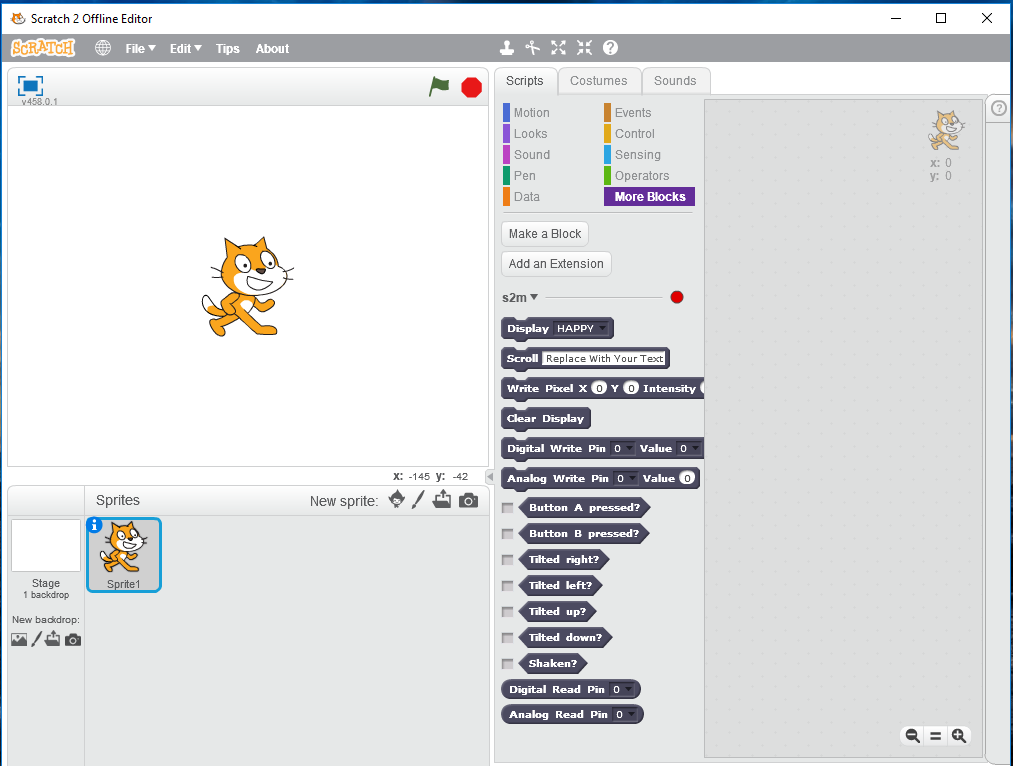
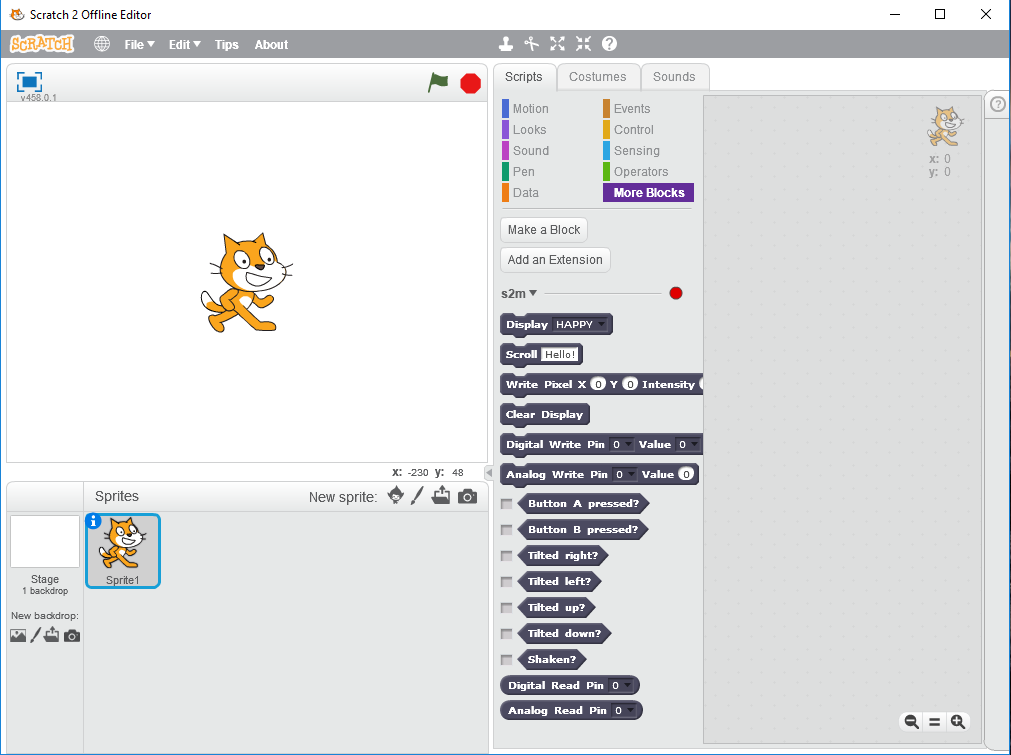
Deployed 98436e9 with MkDocs version: 0.17.1

diff --git a/blocks/index.html b/blocks/index.html
@@ -98,6 +98,30 @@
 
     <li class="toctree-l2"><a href="#the-japanese-blocks">The Japanese Blocks</a></li>
     
+        <ul>
+        
+            <li><a class="toctree-l3" href="#the-japanese-translation-was-provided-by-junya-ishihara">The Japanese translation was provided by Junya Ishihara.</a></li>
+        
+        </ul>
+    
+
+    <li class="toctree-l2"><a href="#the-korean-blocks">The Korean Blocks</a></li>
+    
+        <ul>
+        
+            <li><a class="toctree-l3" href="#the-korean-translation-was-provided-by">The Korean translation was provided by 전형기.</a></li>
+        
+        </ul>
+    
+
+    <li class="toctree-l2"><a href="#the-traditional-chinese-tw-blocks">The Traditional Chinese (TW) Blocks</a></li>
+    
+        <ul>
+        
+            <li><a class="toctree-l3" href="#the-traditional-tw-chinese-translation-and-motion-demo-were-provided-by-hsieh-li-yi-lyshie">The Traditional (tw) Chinese translation and motion demo were provided by HSIEH, Li-Yi (lyshie).</a></li>
+        
+        </ul>
+    
 
     </ul>
 	    </li>
@@ -151,7 +175,9 @@
 <p>This command block allows you to select and display an image on the micro:bit LED display.</p>
 <p><img align="center" src="../images/display_block.png"></p>
 <h2 id="scroll-text">Scroll Text</h2>
-<p>This command block allows you to enter text that will be scrolled across the LED display.</p>
+<p>This command block allows you to enter text that will be scrolled across the LED display.
+The text must be in Roman characters. If not a warning will scroll across the display and
+appear in the command window.</p>
 <p><img align="center" src="../images/scroll_block.png"></p>
 <h2 id="write-pixel">Write Pixel</h2>
 <p>This command block allows you to control each individual pixel on the LED display. A pixel is chosen
@@ -206,8 +232,14 @@ to "see" the shaken event.</p>
 <p><img align="center" src="../images/analog_read_block.png"></p>
 <h3 id="important-note-when-you-press-the-red-stop-button-in-the-scratch-editor-digital-and-analog-outputs-for-pins-0-1-and-2-will-be-set-to-0-and-the-led-display-will-be-cleared">IMPORTANT NOTE: When you press the Red Stop Button in the Scratch Editor, digital and analog outputs for pins 0, 1, and 2 will be set to 0, and the LED display will be cleared.</h3>
 <h1 id="the-japanese-blocks">The Japanese Blocks</h1>
-<p>The Japanese translation was provided by Junya Ishihara.</p>
+<h3 id="the-japanese-translation-was-provided-by-junya-ishihara">The Japanese translation was provided by Junya Ishihara.</h3>
 <p><img align="center" src="../images/japanese_blocks.png"></p>
+<h1 id="the-korean-blocks">The Korean Blocks</h1>
+<h3 id="the-korean-translation-was-provided-by">The Korean translation was provided by 전형기.</h3>
+<p><img align="center" src="../images/korean_blocks.png"></p>
+<h1 id="the-traditional-chinese-tw-blocks">The Traditional Chinese (TW) Blocks</h1>
+<h3 id="the-traditional-tw-chinese-translation-and-motion-demo-were-provided-by-hsieh-li-yi-lyshie">The Traditional (tw) Chinese translation and motion demo were provided by HSIEH, Li-Yi (lyshie).</h3>
+<p><img align="center" src="../images/taiwanese_blocks.png"></p>
               
             </div>
           </div>

diff --git a/translation/index.html b/translation/index.html
@@ -191,7 +191,7 @@ your work.</p>
     13              &quot; &quot;,
     14              &quot;Scroll %s&quot;,
     15              &quot;scroll&quot;,
-    16              &quot;Replace With Your Text&quot;
+    16              &quot;Hello!&quot;
     17          ],
     18          [
     19              &quot; &quot;,
@@ -428,15 +428,15 @@ In addition, you may reorder the parameters in the block.
 
 <p>Lines 22, 23, and 24 contain the initial of zero for the row, zero for the column and 9 for the intensity.</p>
 <p><strong>Do not change any of the numeric initial values for any of the blocks.</strong></p>
-<p>You may however, modify line 16 to be any string you wish, and line 10. Line 10 should match the string contained
-in line 65.</p>
+<p>You may however, modify line 16 to be any string you wish, as long as its in Roman characters. It is suggested
+to stay with default of "Hello!"</p>
 <h2 id="translating-the-menu-descriptors">Translating The Menu Descriptors</h2>
 <p>Only the strings in lines 95 - 128 can be modified. All other menus should not be modified.
 For the names of the images, you will need to append a 2 digit number followed by an underbar to the
 translated name of each shape.</p>
 <p>For example, if you wanted to translate "HAPPY" on line 95 to Italian, you would change it to 
 "01_Contento". The next item in the menu would start with "02_". Each item's 2 digit number is 1 greater than
-the one preceding it. Also line 10, would need to be translated to "01_Contento" as well, to set the initial
+the one preceding it. Also line 10, would needs to be translated to "01_Contento" as well, to set the initial
 value within the block.</p>
 <h2 id="in-summary">In Summary</h2>
 <p>To provide a translation:</p>

diff --git a/usage/index.html b/usage/index.html
@@ -160,6 +160,7 @@ enter:</p>
 <pre><code>s2m -l ja
 </code></pre>
 
+<p>See the <a href="#command-line-options">Command Line Options section</a> for a list of currently available languages.</p>
 <p>The command window should display something similar to this:</p>
 <p><img align="center" src="../images/start_s2m.png"></p>
 <p>The program begins by announcing s2m's version number and thePython version in use.</p>
@@ -206,7 +207,7 @@ enter:</p>
 </code></pre>
 
 <p>or</p>
-<pre><code class="angular2html">s2m -l ja
+<pre><code>s2m -l ja
 </code></pre>
 
 <p>The <strong>COMPORT</strong> option allows you to manually specify which communications port the micro:bit is connected to.</p>

diff --git a/index.html b/index.html
@@ -138,7 +138,7 @@
 <p><br></p>
 <p><img align="center" src="./images/logo3.png"></p>
 <p><br></p>
-<p><em>Last Updated: 06 December 2017</em></p>
+<p><em>Last Updated: 08 December 2017</em></p>
 <h1 id="so-what-is-s2m">So, What is s2m?</h1>
 <p><em><strong>s2m</strong></em> is an <em>open source</em> Python program that acts as a bridge between
  the <a href="https://scratch.mit.edu/download">Scratch 2 off-line editor</a>
@@ -228,5 +228,5 @@ that Raspberry Pi users can also enjoy programming with s2m.</p>
 
 <!--
 MkDocs version : 0.17.1
-Build Date UTC : 2017-12-07 14:57:19
+Build Date UTC : 2017-12-08 19:58:43
 -->
